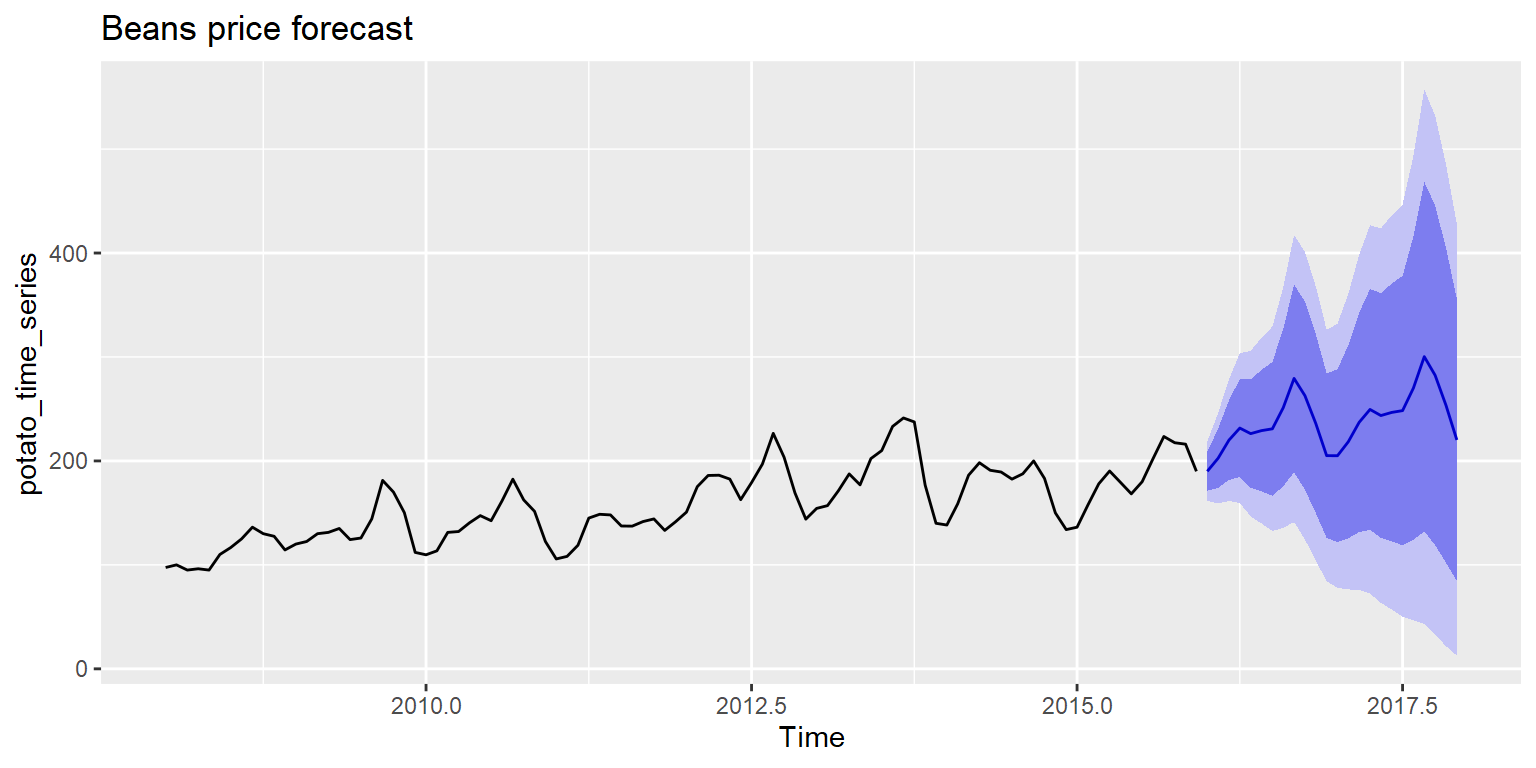
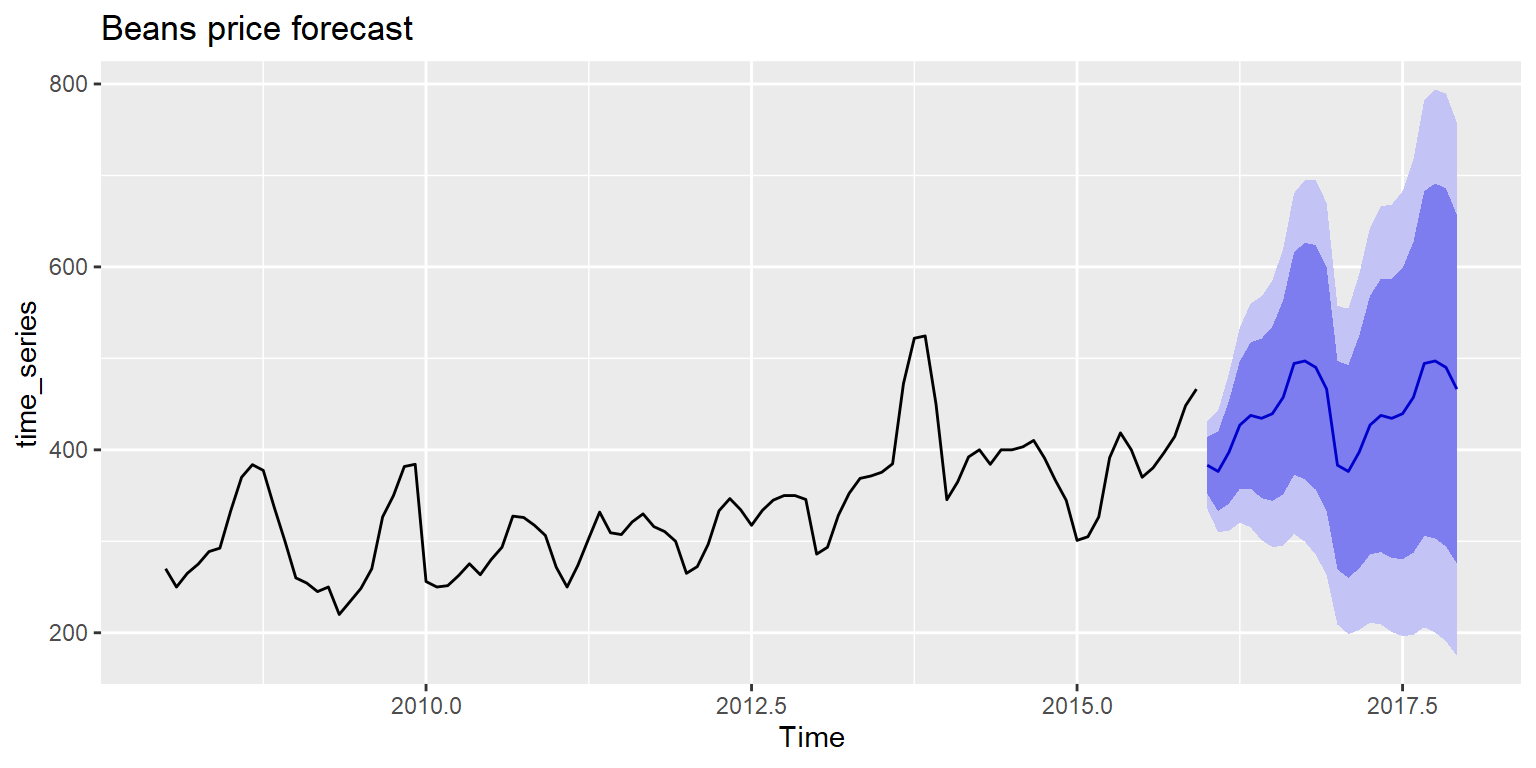
redone project 4

diff --git a/_posts/2020-12-20-project-4/project-4.html b/_posts/2020-12-20-project-4/project-4.html
@@ -1632,13 +1632,14 @@ code span.wa { color: #5e5e5e; font-style: italic; } /* Warning */
 </div>
 <div class="layout-chunk" data-layout="l-body">
 <div class="sourceCode">
-<pre><code><span class='va'>plot_price_forecast</span> <span class='op'>&lt;-</span> <span class='kw'>function</span><span class='op'>(</span><span class='va'>time_series</span>, <span class='va'>commodity</span><span class='op'>)</span> <span class='op'>{</span>
-  <span class='va'>potato_price_forcast</span> <span class='op'>&lt;-</span> <span class='fu'><a href='https://pkg.robjhyndman.com/forecast/reference/forecast.html'>forecast</a></span><span class='op'>(</span><span class='va'>potato_time_series</span><span class='op'>)</span>
+<pre><code><span class='va'>beans_time_series</span> <span class='op'>&lt;-</span> <span class='fu'>create_price_time_series</span><span class='op'>(</span><span class='va'>beans_dry</span><span class='op'>)</span>
+
+<span class='va'>plot_price_forecast</span> <span class='op'>&lt;-</span> <span class='kw'>function</span><span class='op'>(</span><span class='va'>time_series</span>, <span class='va'>commodity</span><span class='op'>)</span> <span class='op'>{</span>
+  <span class='va'>potato_price_forcast</span> <span class='op'>&lt;-</span> <span class='fu'><a href='https://pkg.robjhyndman.com/forecast/reference/forecast.html'>forecast</a></span><span class='op'>(</span><span class='va'>time_series</span><span class='op'>)</span>
   <span class='fu'><a href='https://ggplot2.tidyverse.org/reference/autoplot.html'>autoplot</a></span><span class='op'>(</span><span class='va'>potato_price_forcast</span>, main <span class='op'>=</span> <span class='fu'><a href='https://rdrr.io/r/base/paste.html'>paste0</a></span><span class='op'>(</span><span class='va'>commodity</span>, <span class='st'>" price forecast"</span><span class='op'>)</span><span class='op'>)</span>
 <span class='op'>}</span>
 
-<span class='co'># Try the function on the pea data</span>
-<span class='fu'>plot_price_forecast</span><span class='op'>(</span><span class='va'>beans_dry</span>, <span class='st'>"Beans"</span><span class='op'>)</span>
+<span class='fu'>plot_price_forecast</span><span class='op'>(</span><span class='va'>beans_time_series</span>, <span class='st'>"Beans"</span><span class='op'>)</span>
 </code></pre>
 </div>
 <p><img src="project-4_files/figure-html5/unnamed-chunk-13-1.png" width="768" /></p>

diff --git a/docs/posts/2020-12-20-project-4/index.html b/docs/posts/2020-12-20-project-4/index.html
@@ -2539,13 +2539,14 @@ d-appendix d-footnote-list a.footnote-backlink {
 </div>
 <div class="layout-chunk" data-layout="l-body">
 <div class="sourceCode">
-<pre><code><span class='va'>plot_price_forecast</span> <span class='op'>&lt;-</span> <span class='kw'>function</span><span class='op'>(</span><span class='va'>time_series</span>, <span class='va'>commodity</span><span class='op'>)</span> <span class='op'>{</span>
-  <span class='va'>potato_price_forcast</span> <span class='op'>&lt;-</span> <span class='fu'><a href='https://pkg.robjhyndman.com/forecast/reference/forecast.html'>forecast</a></span><span class='op'>(</span><span class='va'>potato_time_series</span><span class='op'>)</span>
+<pre><code><span class='va'>beans_time_series</span> <span class='op'>&lt;-</span> <span class='fu'>create_price_time_series</span><span class='op'>(</span><span class='va'>beans_dry</span><span class='op'>)</span>
+
+<span class='va'>plot_price_forecast</span> <span class='op'>&lt;-</span> <span class='kw'>function</span><span class='op'>(</span><span class='va'>time_series</span>, <span class='va'>commodity</span><span class='op'>)</span> <span class='op'>{</span>
+  <span class='va'>potato_price_forcast</span> <span class='op'>&lt;-</span> <span class='fu'><a href='https://pkg.robjhyndman.com/forecast/reference/forecast.html'>forecast</a></span><span class='op'>(</span><span class='va'>time_series</span><span class='op'>)</span>
   <span class='fu'><a href='https://ggplot2.tidyverse.org/reference/autoplot.html'>autoplot</a></span><span class='op'>(</span><span class='va'>potato_price_forcast</span>, main <span class='op'>=</span> <span class='fu'><a href='https://rdrr.io/r/base/paste.html'>paste0</a></span><span class='op'>(</span><span class='va'>commodity</span>, <span class='st'>" price forecast"</span><span class='op'>)</span><span class='op'>)</span>
 <span class='op'>}</span>
 
-<span class='co'># Try the function on the pea data</span>
-<span class='fu'>plot_price_forecast</span><span class='op'>(</span><span class='va'>beans_dry</span>, <span class='st'>"Beans"</span><span class='op'>)</span>
+<span class='fu'>plot_price_forecast</span><span class='op'>(</span><span class='va'>beans_time_series</span>, <span class='st'>"Beans"</span><span class='op'>)</span>
 </code></pre>
 </div>
 <p><img src="project-4_files/figure-html5/unnamed-chunk-13-1.png" width="768" /></p>
